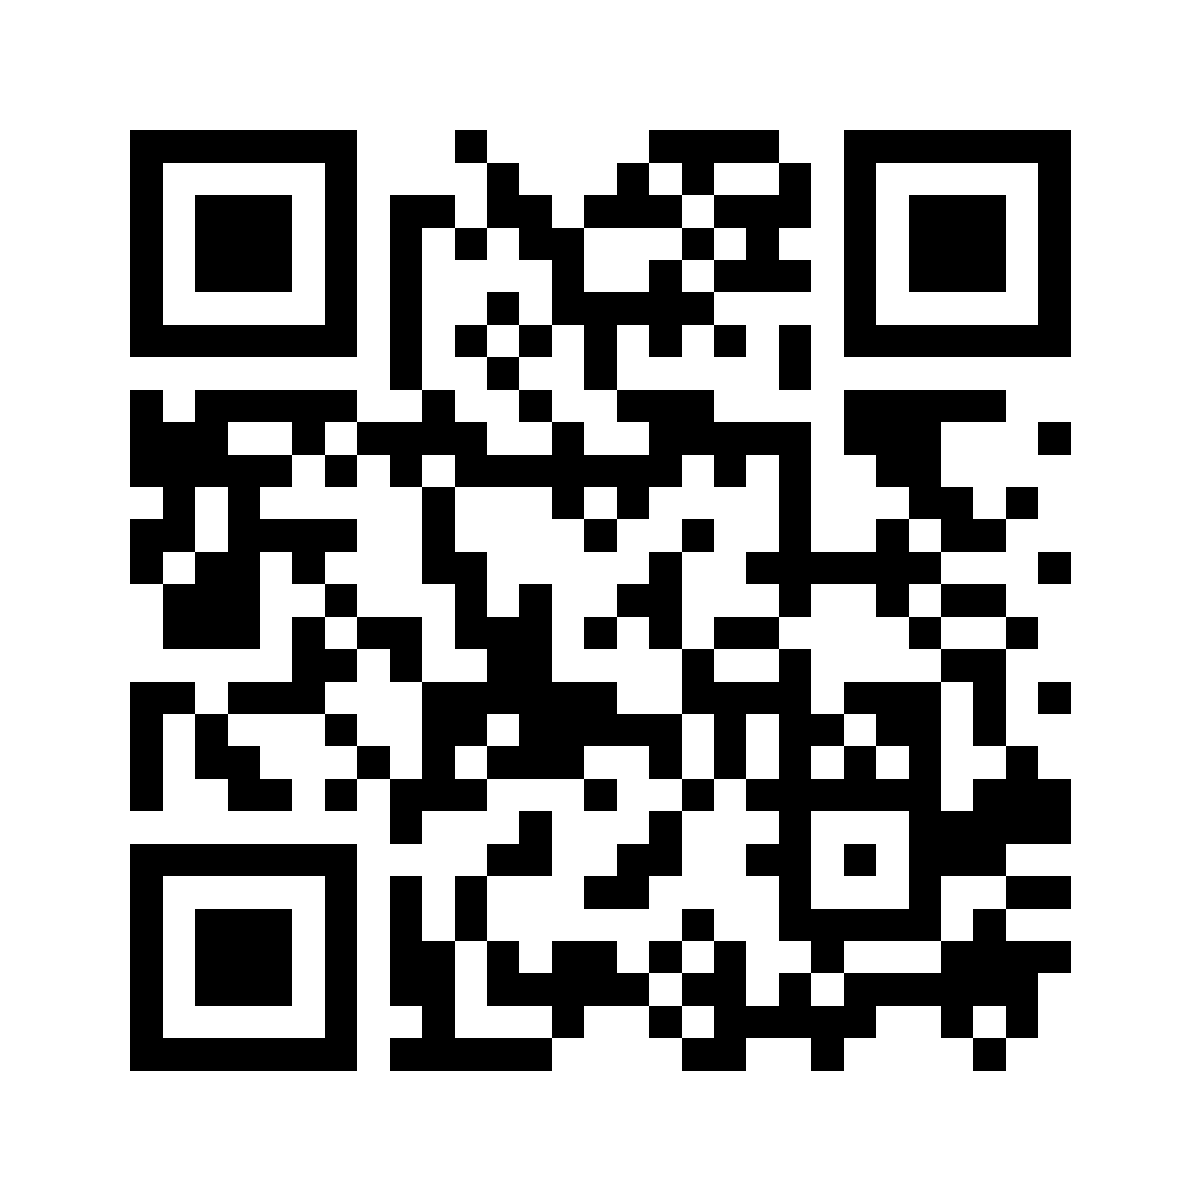
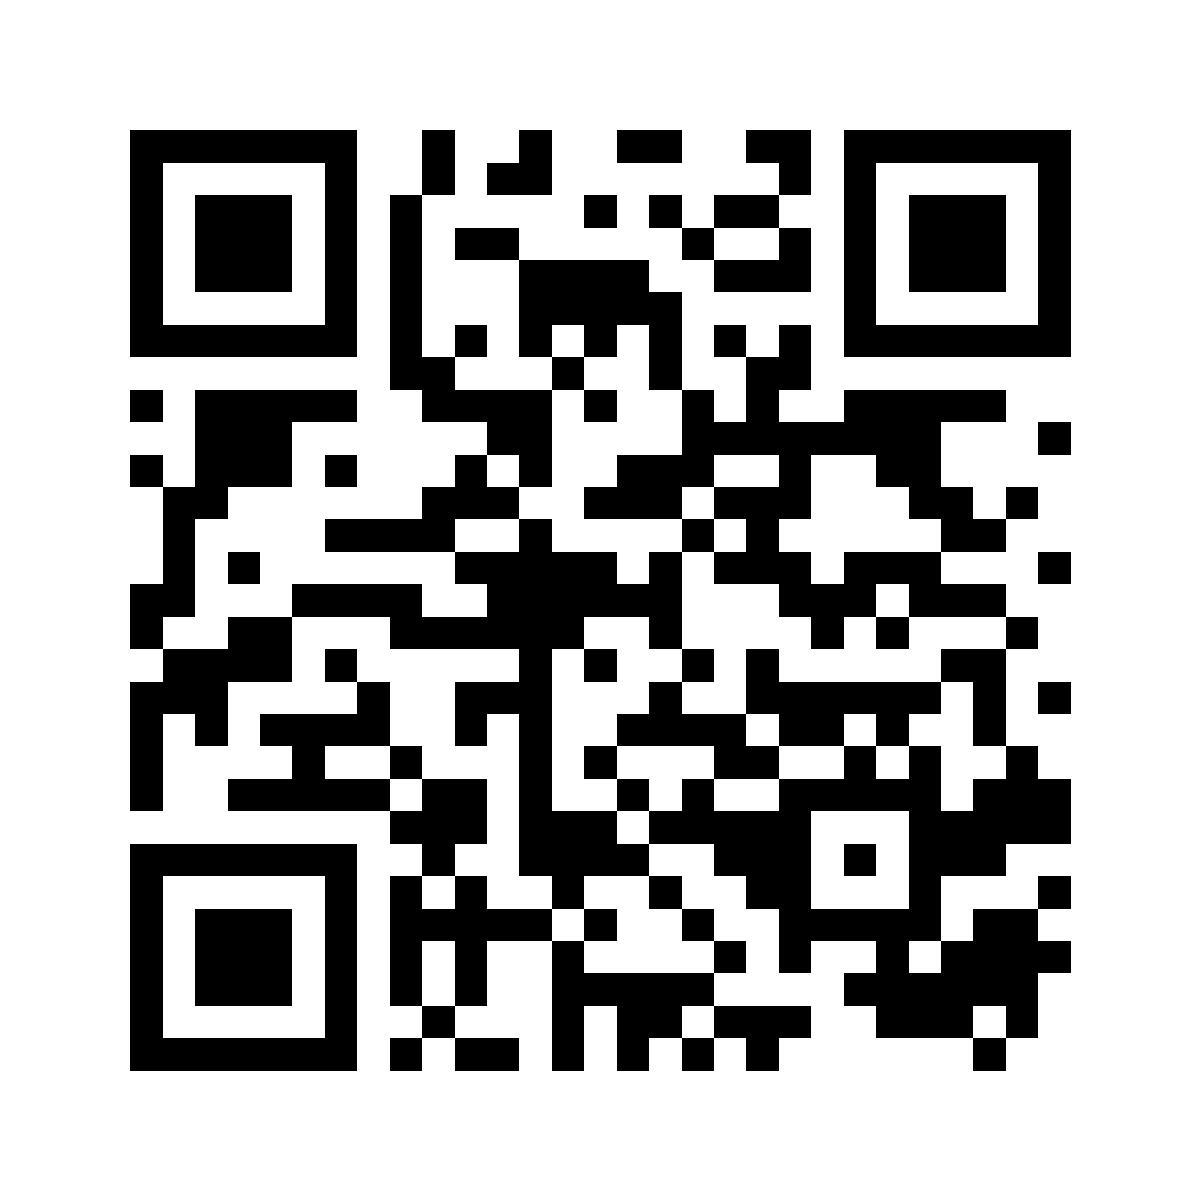
QR di stampa col dominio nuovo islaexcursionstenerife.com
Claude-Session: https://claude.ai/code/session_013reGWnD2sr1KX6RveVN56r

diff --git a/stampa/LEGGIMI.md b/stampa/LEGGIMI.md
@@ -1,10 +1,9 @@
 # Il QR di Isla
 
-`qr-isla.svg` e `qr-isla.png` aprono **https://jacques88-sudo.github.io/isla/**, cioè
-la pagina iniziale dell'app. Dal 21 ottobre 2026 Isla sta su
-**https://islaexcursionstenerife.com/**: il QR stampato funziona lo stesso, perché GitHub
-manda il vecchio indirizzo al nuovo. Per la prossima ristampa conviene rifarlo col
-dominio nuovo (il comando è in fondo), ed è il proprietario a decidere quando. È **uguale per tutti i ticket**: il cliente vede il catalogo e,
+`qr-isla.svg` e `qr-isla.png` aprono **https://islaexcursionstenerife.com/**, cioè
+la pagina iniziale dell'app (rifatti col dominio nuovo il 22 ottobre 2026). I ticket
+già stampati col QR vecchio, che apre `jacques88-sudo.github.io/isla/`, funzionano
+lo stesso: GitHub manda il vecchio indirizzo al nuovo. È **uguale per tutti i ticket**: il cliente vede il catalogo e,
 da "Il mio ticket", entra con numero del ticket e telefono (deciso dal proprietario, 1°
 ottobre 2026).
 
@@ -27,10 +26,10 @@ ottobre 2026).
 
 ## Prima di stampare tanti ticket
 
-**Un QR stampato non si può più cambiare.** Se un giorno Isla passa a un dominio suo
-(per esempio `isla-tenerife.com`), questi QR continueranno a portare all'indirizzo di
-GitHub. Funzionano finché quell'indirizzo esiste. Se il dominio nuovo è in programma,
-conviene deciderlo **prima** della ristampa dei blocchetti.
+**Un QR stampato non si può più cambiare.** Questo porta al dominio di Isla,
+`islaexcursionstenerife.com`: funziona finché il dominio resta pagato (il rinnovo è
+automatico, su Cloudflare). Se un giorno il dominio scade, i QR stampati non portano
+più da nessuna parte.
 
 ## Provato
 
@@ -45,5 +44,5 @@ Con Node, in una cartella qualsiasi:
 
 ```bash
 npm i qrcode
-node -e 'const Q=require("qrcode");const u="https://jacques88-sudo.github.io/isla/";const o={errorCorrectionLevel:"M",margin:4};Q.toString(u,{...o,type:"svg"}).then(s=>require("fs").writeFileSync("qr-isla.svg",s));Q.toFile("qr-isla.png",u,{...o,width:1200})'
+node -e 'const Q=require("qrcode");const u="https://islaexcursionstenerife.com/";const o={errorCorrectionLevel:"M",margin:4};Q.toString(u,{...o,type:"svg"}).then(s=>require("fs").writeFileSync("qr-isla.svg",s));Q.toFile("qr-isla.png",u,{...o,width:1200})'
 ```

diff --git a/NOTES.md b/NOTES.md
@@ -20844,7 +20844,8 @@ Fatto col collegamento:
 - `CATALOGO_URL` di `foglio-google/Codice.gs`: la copia dentro Apps Script ha ancora
   il vecchio e funziona col rimando (UrlFetchApp segue i rimandi), non va ricopiata
   apposta;
-- il QR di `stampa/`: non rifatto, il vecchio funziona col rimando.
+- il QR di `stampa/`: non rifatto, il vecchio funziona col rimando (rifatto il 22
+  ottobre, sotto).
 
 Isla Ticket carica `../isla/…` da `jacques88-sudo.github.io/isla-ticket/`: arriva al
 dominio nuovo col rimando di GitHub, i `<script>` e i fogli di stile lo seguono. Il
@@ -21030,3 +21031,14 @@ codice anche nel foglio Google (passo da proporre, non fatto).
 Provato: `calcolaStatistiche()` in Node con richieste finte (annullata esclusa, codice
 senza nome, senza colonna → `leggeCodici` falso) e la tabella nel browser a 390 px,
 nessun errore. `CACHE_NAME` → `isla-v615`.
+
+### Il QR col dominio nuovo (22 ottobre 2026)
+
+Il proprietario ha chiesto il QR nuovo: `stampa/qr-isla.svg` e `qr-isla.png` aprono ora
+**https://islaexcursionstenerife.com/**, la pagina iniziale. Stesse regole di prima:
+uguale per tutti, correzione M, margine 4, versione 3 (29 × 29), PNG 1200 px. I ticket
+stampati col QR vecchio continuano a funzionare col rimando di GitHub. Nessuna modifica
+al sito (`stampa/` non sta nella cache del service worker): `CACHE_NAME` resta com'è.
+
+Provato: il PNG riletto con `jsQR`, l'SVG disegnato in Chromium a 100, 150 e 300 px e
+riletto: porta sempre a `https://islaexcursionstenerife.com/`.
